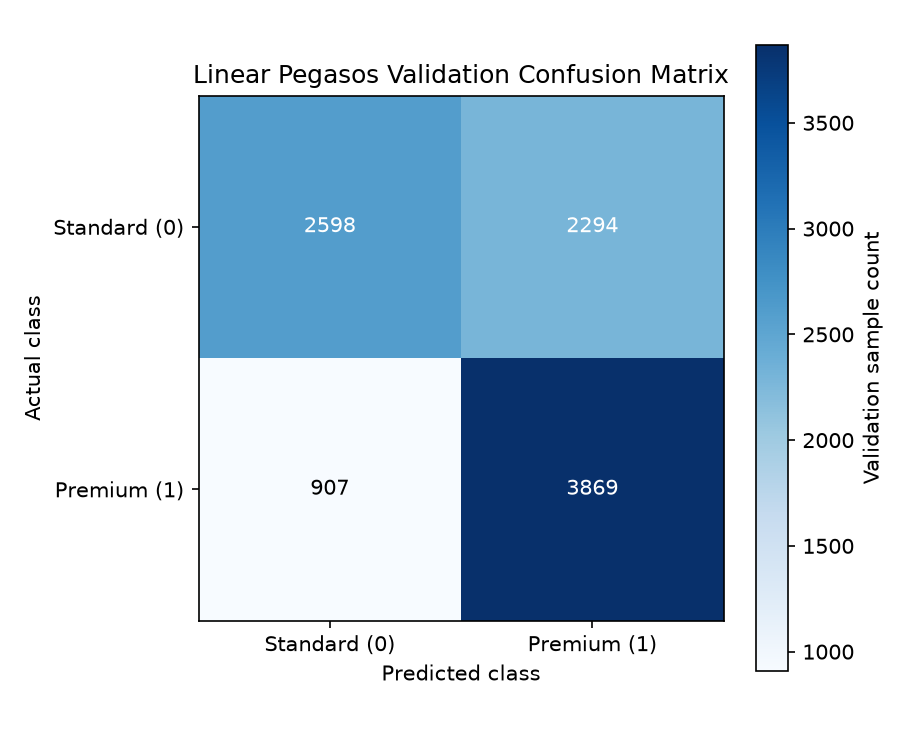
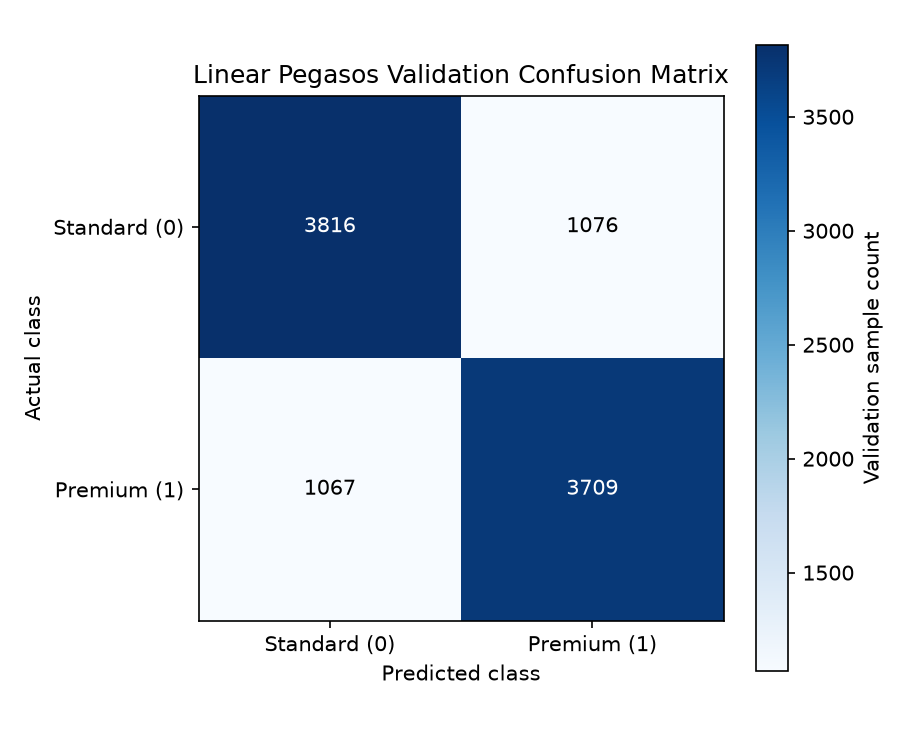
Add SVM validation experiments, updated figures and slides

diff --git a/run_svm_figures.py b/run_svm_figures.py
@@ -1,0 +1,161 @@
+"""Regenerate the six SVM figures using the current train/validation pipeline."""
+
+import os
+from time import perf_counter
+
+import pandas as pd
+
+# Avoid interactive windows by default; respect an explicitly selected backend.
+os.environ.setdefault("MPLBACKEND", "Agg")
+
+from src import data_prep
+from src.exp_svm import (
+    analyze_convergence,
+    compare_lambda_margin_performance,
+    compare_linear_rff_performance,
+    plot_convergence,
+)
+
+
+FIGURE_PATHS = (
+    "report/figures/svm_convergence.png",
+    "report/figures/svm_margin_lambda.png",
+    "report/figures/svm_linear_vs_rff.png",
+    "report/figures/svm_rff_confusion_matrix.png",
+    "report/figures/svm_linear_confusion_matrix.png",
+    "report/figures/svm_error_comparison.png",
+)
+
+
+def run_timed_stage(name, details, action):
+    print("\n[START] {}: {}".format(name, details), flush=True)
+    started = perf_counter()
+    try:
+        result = action()
+    except BaseException as error:
+        elapsed = perf_counter() - started
+        print(
+            "[STOP] {} after {:.1f} seconds ({})".format(
+                name, elapsed, type(error).__name__
+            ),
+            flush=True,
+        )
+        raise
+    elapsed = perf_counter() - started
+    print("[DONE] {} in {:.1f} seconds.".format(name, elapsed), flush=True)
+    return result
+
+
+def main():
+    total_started = perf_counter()
+    cleaned = data_prep.clean(data_prep.load_raw())
+    X, y_price, _ = data_prep.make_features(cleaned)
+    (
+        X_train,
+        y_train_price,
+        X_val,
+        y_val_price,
+        _,
+        _,
+    ) = data_prep.train_val_test_split(X, y_price)
+
+    X_train = pd.get_dummies(X_train, columns=["property_type"], dtype=int)
+    X_val = pd.get_dummies(
+        X_val, columns=["property_type"], dtype=int
+    ).reindex(columns=X_train.columns, fill_value=0)
+
+    X_train["land_area_m2"] = X_train["land_area_m2"].fillna(0)
+    X_val["land_area_m2"] = X_val["land_area_m2"].fillna(0)
+    train_medians = X_train.median()
+    X_train = X_train.fillna(train_medians)
+    X_val = X_val.fillna(train_medians)
+
+    y_train, threshold = data_prep.make_tier_label(y_train_price)
+    y_val, _ = data_prep.make_tier_label(y_val_price, threshold)
+    X_train_scaled, X_val_scaled = data_prep.standardize(X_train, X_val)
+    feature_names = X_train.columns.tolist()
+
+    print("Train samples: {}".format(len(X_train_scaled)))
+    print("Validation samples: {}".format(len(X_val_scaled)))
+    print("Training-price median threshold: {:.6f}".format(threshold))
+    print("Feature count: {}".format(len(feature_names)))
+    print("Features: {}".format(feature_names))
+    print("Test partition is not used for fitting, selection, or figures.")
+    print("Preprocessing complete in {:.1f} seconds.".format(
+        perf_counter() - total_started
+    ), flush=True)
+
+    def generate_convergence_figure():
+        iterations, objectives = analyze_convergence(
+            X_train_scaled,
+            y_train,
+            lambda_=0.01,
+            max_iters=20000,
+            step=1000,
+        )
+        plot_convergence(iterations, objectives)
+
+    run_timed_stage(
+        "Convergence figure",
+        "1 Pegasos fit, lambda=0.01, 20,000 updates; 21 full-training objective checkpoints",
+        generate_convergence_figure,
+    )
+
+    lambda_values = [0.01, 0.001, 0.0001]
+    lambda_updates_each = 3 * len(X_train_scaled)
+    total_updates = (
+        20000
+        + len(lambda_values) * lambda_updates_each
+        + lambda_updates_each
+        + 20000
+    )
+    print(
+        "Planned Pegasos update loops across all stages: {:,}. "
+        "The lambda=0.01 linear model is fit again in the comparison helper.".format(
+            total_updates
+        ),
+        flush=True,
+    )
+    run_timed_stage(
+        "Lambda/margin figure",
+        "3 Pegasos fits for {}; {:,} updates each, {:,} total".format(
+            lambda_values, lambda_updates_each,
+            len(lambda_values) * lambda_updates_each,
+        ),
+        lambda: compare_lambda_margin_performance(
+            X_train_scaled, y_train, X_val_scaled, y_val
+        ),
+    )
+
+    results = run_timed_stage(
+        "Linear/RFF comparison and three figures",
+        "Linear Pegasos: {:,} updates; RFF: 20,000 updates over 500 components".format(
+            lambda_updates_each
+        ),
+        lambda: compare_linear_rff_performance(
+            X_train_scaled,
+            y_train,
+            X_val_scaled,
+            y_val,
+            X_val,
+            feature_names,
+        ),
+    )
+    print("\nSelected-model validation results:")
+    for model_name, metrics in results.items():
+        print(
+            "{}: accuracy={:.6f}, F1={:.6f}".format(
+                model_name, metrics["accuracy"], metrics["f1"]
+            )
+        )
+
+    print("\nGenerated SVM figures:")
+    for figure_path in FIGURE_PATHS:
+        print(figure_path)
+    print("\nAll stages completed in {:.1f} seconds.".format(
+        perf_counter() - total_started
+    ), flush=True)
+
+
+if __name__ == "__main__":
+    main()

diff --git a/run_svm_validation.py b/run_svm_validation.py
@@ -1,0 +1,90 @@
+"""Reproduce Linear Pegasos and RFF validation metrics with current preprocessing."""
+
+import pandas as pd
+from sklearn.metrics import (
+    accuracy_score,
+    confusion_matrix,
+    f1_score,
+    precision_score,
+    recall_score,
+)
+
+from src import data_prep
+from src.svm import PegasosSVM, RFFPegasosSVM
+
+
+def report_validation_metrics(name, model, X_val, y_val):
+    predictions = model.predict(X_val)
+    matrix = confusion_matrix(y_val, predictions, labels=[0, 1])
+
+    print("\n{}".format(name))
+    print("Accuracy:  {:.6f}".format(accuracy_score(y_val, predictions)))
+    print("Precision: {:.6f}".format(precision_score(y_val, predictions, zero_division=0)))
+    print("Recall:    {:.6f}".format(recall_score(y_val, predictions, zero_division=0)))
+    print("F1-score:  {:.6f}".format(f1_score(y_val, predictions, zero_division=0)))
+    print("Confusion matrix (rows=true [0, 1], columns=predicted [0, 1]):")
+    print(matrix)
+
+
+def main():
+    cleaned = data_prep.clean(data_prep.load_raw())
+    X, y_price, _ = data_prep.make_features(cleaned)
+    (
+        X_train,
+        y_train_price,
+        X_val,
+        y_val_price,
+        _,
+        _,
+    ) = data_prep.train_val_test_split(X, y_price)
+
+    X_train = pd.get_dummies(X_train, columns=["property_type"], dtype=int)
+    X_val = pd.get_dummies(
+        X_val, columns=["property_type"], dtype=int
+    ).reindex(columns=X_train.columns, fill_value=0)
+
+    print("Preprocessing statistics:")
+    print("- land_area_m2 missing values are replaced with fixed value 0.")
+    X_train["land_area_m2"] = X_train["land_area_m2"].fillna(0)
+    X_val["land_area_m2"] = X_val["land_area_m2"].fillna(0)
+
+    train_medians = X_train.median()
+    print("- Remaining imputation medians are computed from X_train only.")
+    X_train = X_train.fillna(train_medians)
+    X_val = X_val.fillna(train_medians)
+
+    y_train, threshold = data_prep.make_tier_label(y_train_price)
+    y_val, _ = data_prep.make_tier_label(y_val_price, threshold)
+    print("- Premium threshold is the training-price median: {:.6f}.".format(threshold))
+
+    X_train_scaled, X_val_scaled = data_prep.standardize(X_train, X_val)
+    print("- Scaling means/stds are computed from X_train only; the same transform is applied to X_val.")
+
+    feature_names = X_train.columns.tolist()
+    print("\nTrain samples: {}".format(len(X_train_scaled)))
+    print("Validation samples: {}".format(len(X_val_scaled)))
+    print("Feature count: {}".format(len(feature_names)))
+    print("Feature names (training column order): {}".format(feature_names))
+    print("Test partition: not evaluated, inspected, or used for model selection.")
+
+    linear_model = PegasosSVM(
+        lambda_=0.01,
+        n_iters=3 * len(X_train_scaled),
+        random_state=42,
+    ).fit(X_train_scaled, y_train)
+    report_validation_metrics(
+        "Linear Pegasos SVM", linear_model, X_val_scaled, y_val
+    )
+
+    rff_model = RFFPegasosSVM(
+        gamma=1,
+        lambda_=0.0001,
+        n_components=500,
+        n_iters=20000,
+        random_state=42,
+    ).fit(X_train_scaled, y_train)
+    report_validation_metrics("RFF Pegasos SVM", rff_model, X_val_scaled, y_val)
+
+
+if __name__ == "__main__":
+    main()
